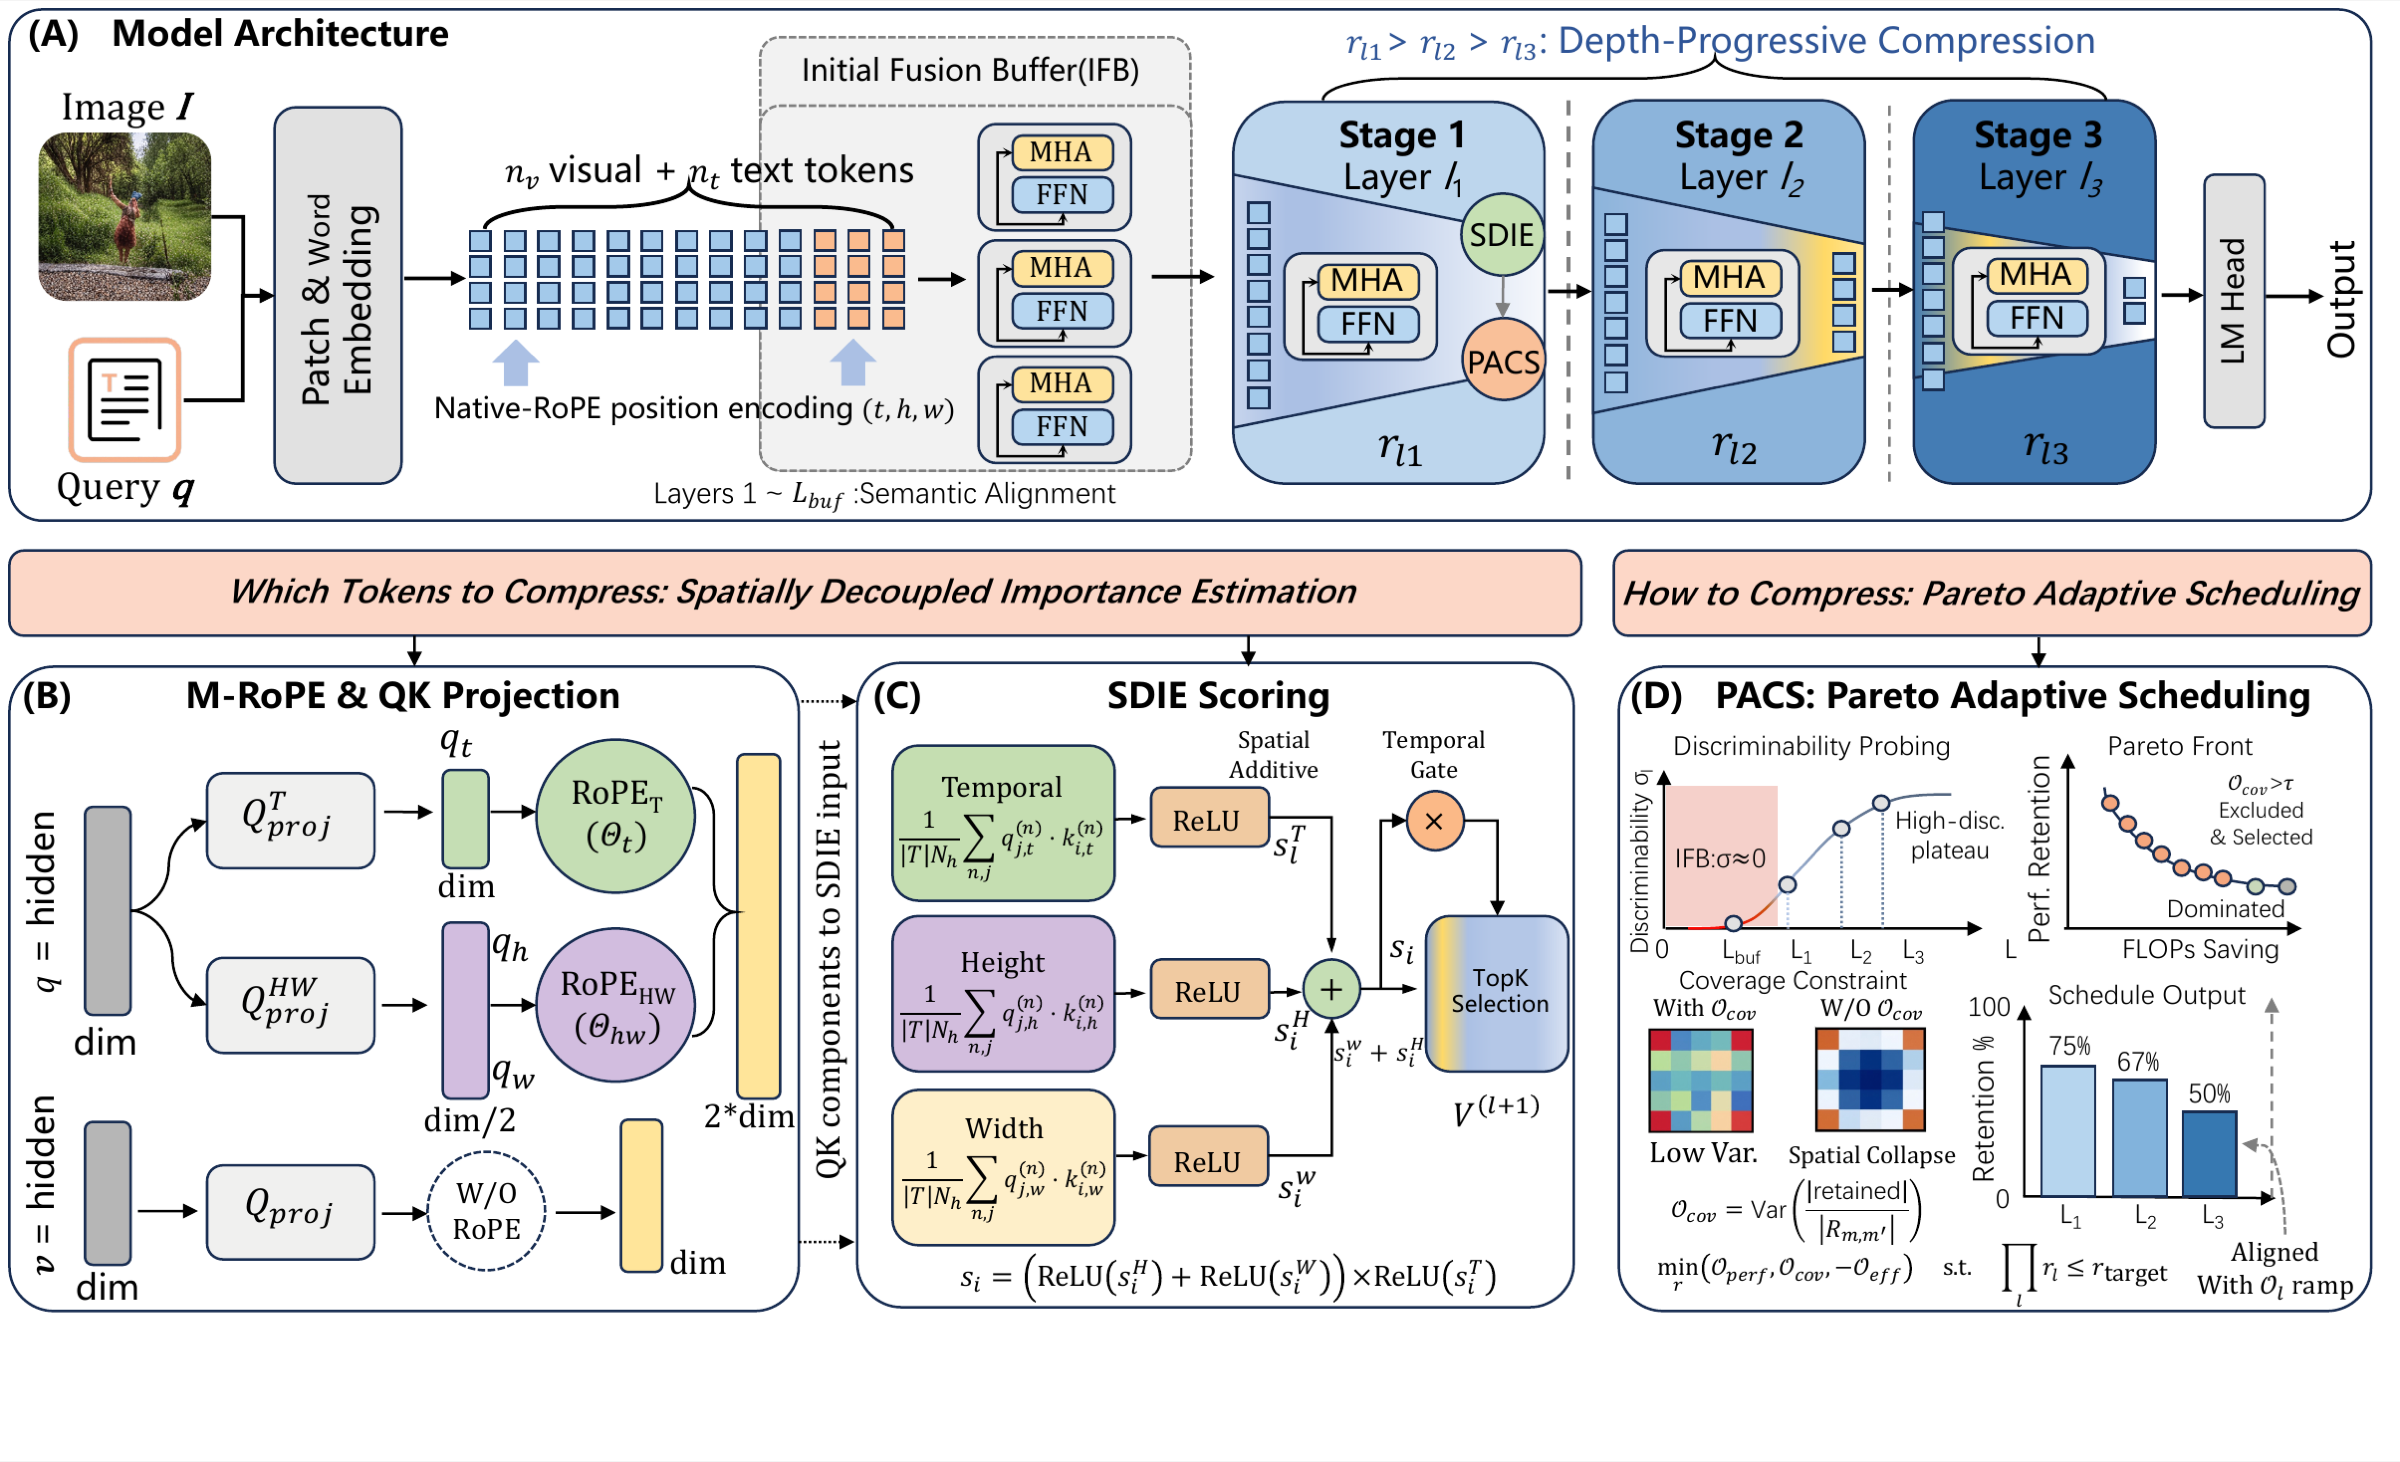
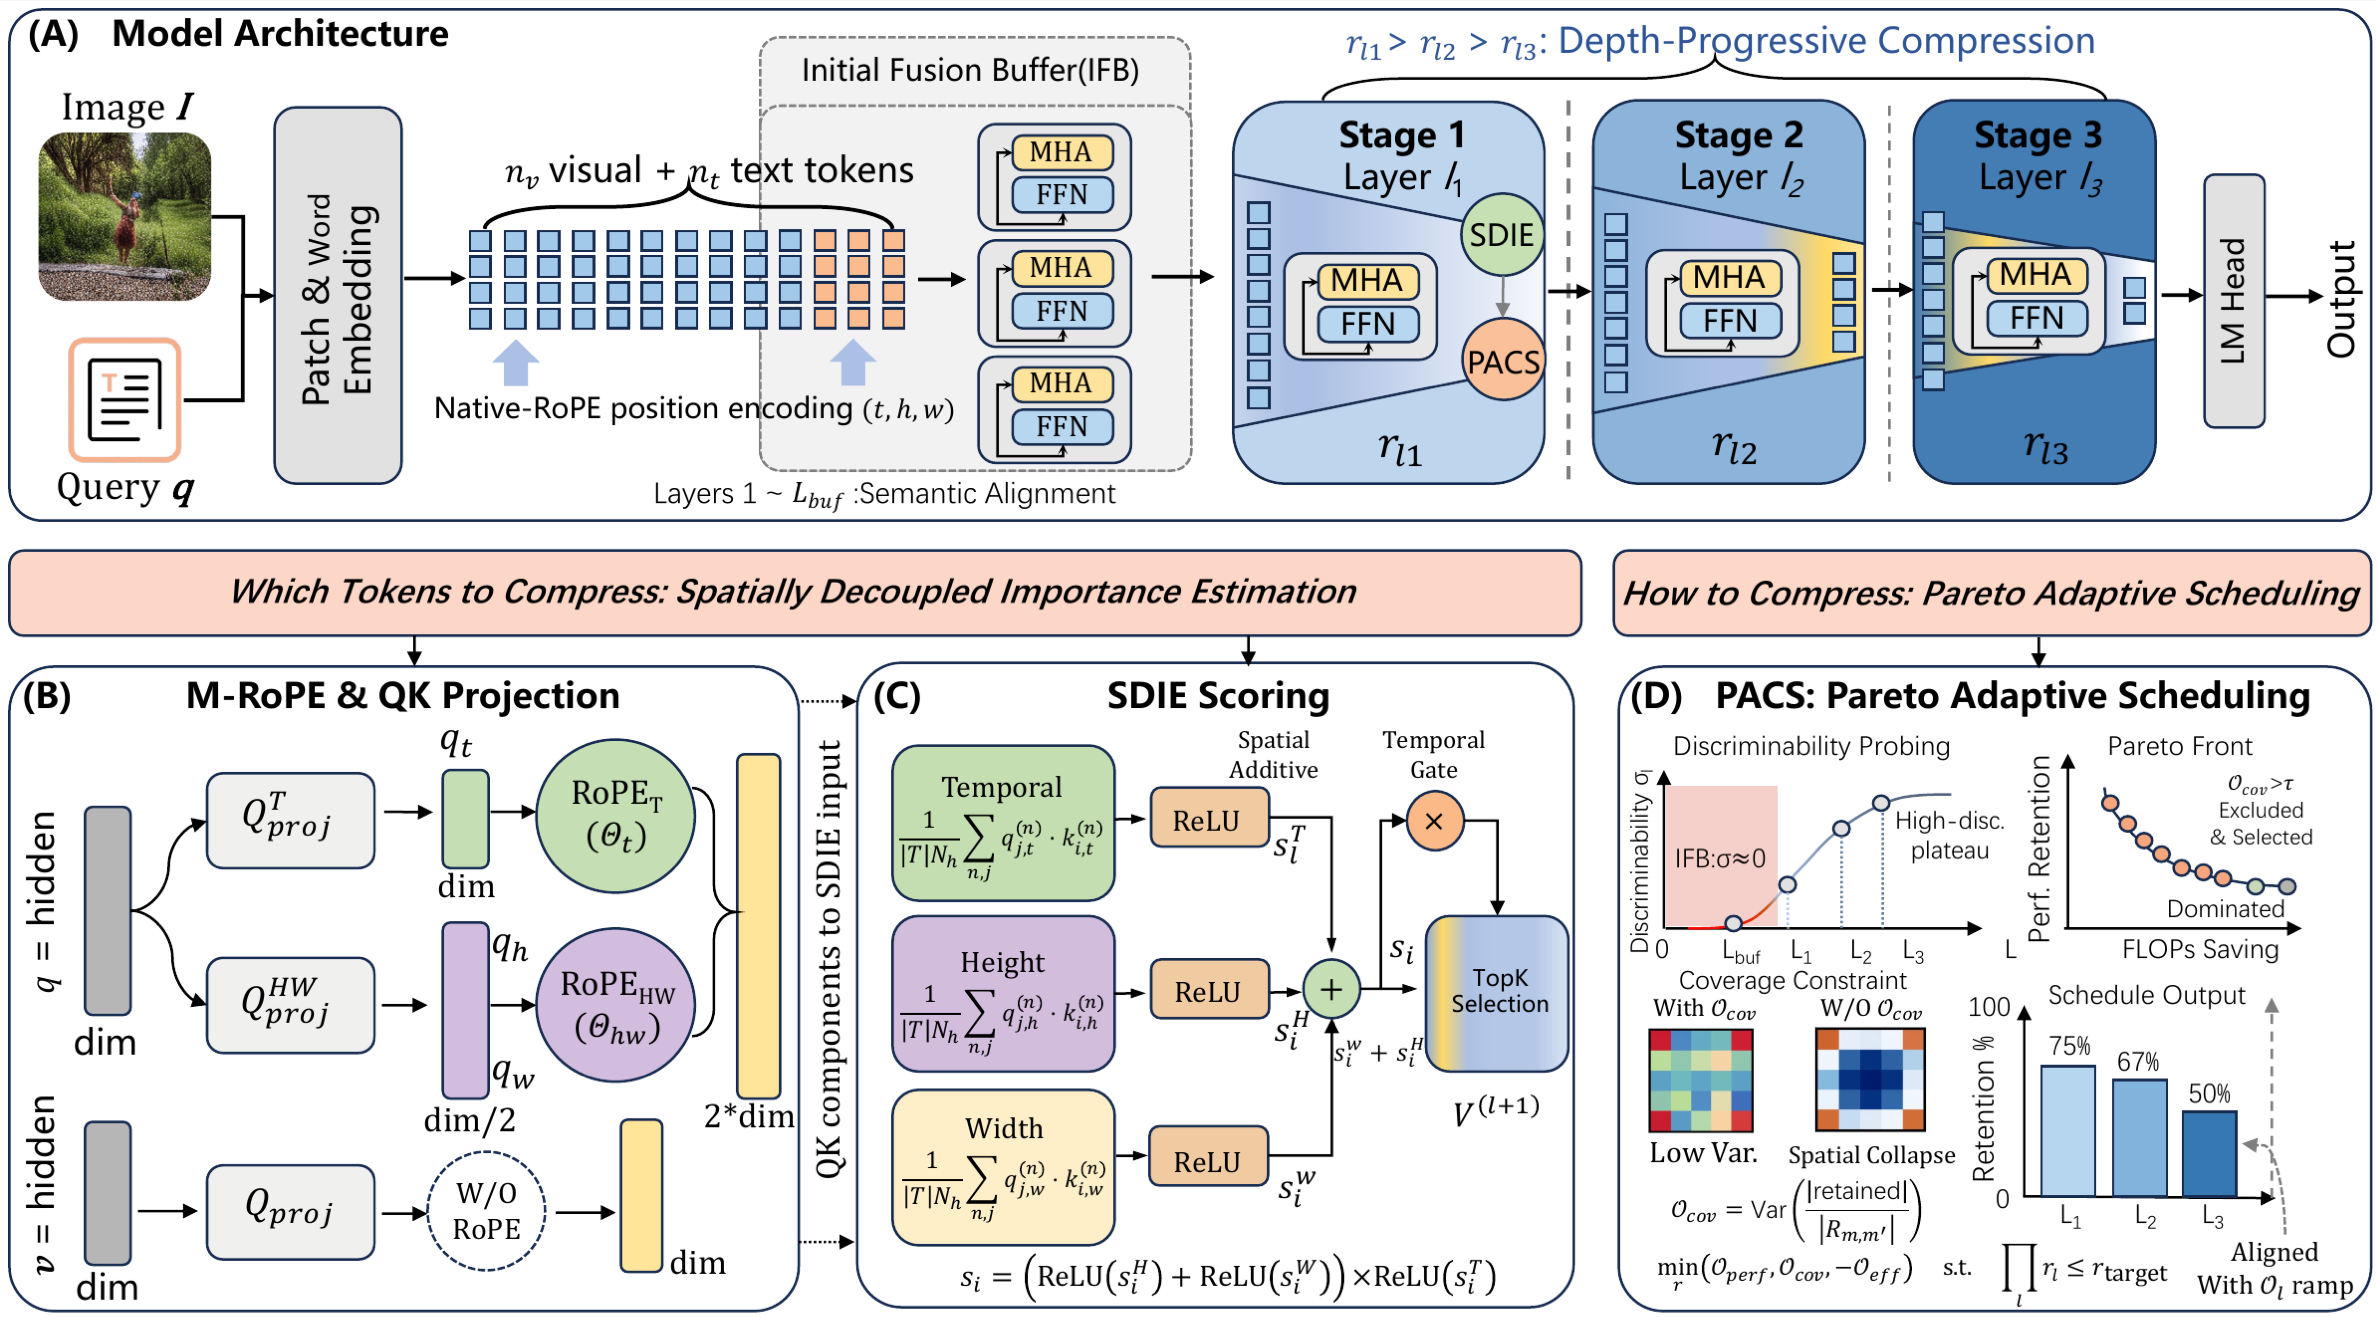
update

diff --git a/content/publication/pace/index.md b/content/publication/pace/index.md
@@ -10,8 +10,8 @@ date: "2026-09-29T00:00:00Z"
 doi: ""
 
 publication_types: ["1"]
-publication: "Advances in Neural Information Processing Systems (NeurIPS), 2026 (Poster)"
-publication_short: "NeurIPS 2026 Poster"
+publication: "Advances in Neural Information Processing Systems (NeurIPS), 2026"
+publication_short: "NeurIPS 2026"
 
 abstract: "Native multimodal large language models (native MLLMs) jointly encode visual and linguistic sequences within a unified autoregressive Transformer, emerging as a promising paradigm for multimodal understanding. Unlike conventional ViT-based MLLMs that rely on an external vision encoder, ViT-free native MLLMs tokenize every pixel patch directly, which is intuitively expected to suffer from severe visual token redundancy. To examine this hypothesis, we conduct a pilot study and find that, unlike ViT-based models which degrade under compression, ViT-free MLLMs tolerate aggressive compression with near-lossless or even improved performance. Existing compression methods are built exclusively for the ViT-based setting, whereas native MLLMs, which stand to gain the most from visual token compression, remain entirely unexplored. To close this gap, we introduce an analysis pipeline for native backbones, centered on two metrics, i.e., token discriminability and cross-dimensional heterogeneous redundancy, which together reveal the following two findings: (i) redundancy is distributed independently and heterogeneously along the height and width axes, and (ii) in early layers, visual tokens are indiscriminable and uniformly redundant. Guided by these findings, we propose PACE (Pareto-Adaptive Compression for Efficient Native MLLMs), the first visual token compression framework tailored for native MLLMs with Multimodal-RoPE. Leveraging the dimensional decoupling of position encoding, PACE decomposes attention into two orthogonal spatial saliency estimates along height and width, gated by a positional attention signal, yielding a direction-aware importance measure with negligible overhead. It further casts token budget allocation as a Pareto optimization over three objectives, i.e., performance preservation, inference efficiency, and spatial coverage, which jointly identify the optimal compression depths and retention ratios. Experiments show that PACE maintains near-lossless performance at only 25%–50% visual token retention, and even achieves performance gains on several benchmarks, while delivering over 2× FLOPs reduction."
 summary: "Pareto-adaptive visual token compression for efficient native multimodal language models."

diff --git a/content/publication/pathology-aware-prototype-evolution/index.md b/content/publication/pathology-aware-prototype-evolution/index.md
@@ -10,8 +10,8 @@ date: "2025-01-01T00:00:00Z"
 doi: "10.1145/3746027.3754562"
 
 publication_types: ["1"]
-publication: "Proceedings of the 33rd ACM International Conference on Multimedia (ACM MM), 2025"
-publication_short: "ACM MM 2025"
+publication: "Proceedings of the 33rd ACM International Conference on Multimedia (ACM MM), 2025 (Oral)"
+publication_short: "ACM MM 2025 Oral"
 
 abstract: "Diabetic retinopathy (DR) grading plays a critical role in early clinical intervention and vision preservation. Recent explorations predominantly focus on visual lesion feature extraction through data processing and domain decoupling strategies. However, they generally overlook domain-invariant pathological patterns and underutilize the rich contextual knowledge of foundation models, relying solely on visual information, which is insufficient for distinguishing subtle pathological variations. Therefore, we propose integrating fine-grained pathological descriptions to complement prototypes with additional context, thereby resolving ambiguities in borderline cases. Specifically, we propose a Hierarchical Anchor Prototype Modulation (HAPM) framework to facilitate DR grading. First, we introduce a variance spectrum-driven anchor prototype library that preserves domain-invariant pathological patterns. We further employ a hierarchical differential prompt gating mechanism, dynamically selecting discriminative semantic prompts from both LVLM and LLM sources to address semantic confusion between adjacent DR grades. Finally, we utilize a two-stage prototype modulation strategy that progressively integrates clinical knowledge into visual prototypes through a Pathological Semantic Injector (PSI) and a Discriminative Prototype Enhancer (DPE). Extensive experiments across eight public datasets demonstrate that our approach achieves pathology-guided prototype evolution while outperforming state-of-the-art methods."
 summary: "LLM-driven pathology-aware prototype evolution for multicenter diabetic retinopathy diagnosis."

diff --git a/content/publication/ultrasound-continual-learning/index.md b/content/publication/ultrasound-continual-learning/index.md
@@ -12,8 +12,8 @@ date: "2024-12-03T00:00:00Z"
 doi: ""
 
 publication_types: ["1"]
-publication: "IEEE International Conference on Bioinformatics and Biomedicine (BIBM), 2024"
-publication_short: "BIBM 2024"
+publication: "IEEE International Conference on Bioinformatics and Biomedicine (BIBM), 2024 (Oral)"
+publication_short: "BIBM 2024 Oral"
 
 abstract: "As artificial intelligence progresses in the field of medical ultrasound image analysis, mitigating catastrophic forgetting during continuous learning processes in disease diagnosis and fetal ultrasound assistance is crucial. Inspired by the significant performance improvements achieved in various downstream visual tasks through advanced visual representations, we introduce a novel approach called Masked Ultrasound Image Modeling (MUIM) to prevent forgetting of new disease diagnosis tasks. In this approach, MUIM initially pre-trains on ultrasound images specific to the current task. By utilizing a masked autoencoder to train on unlabeled ultrasound images, it learns highly abstract representations of task-relevant information. To ensure the model's adaptability to new tasks, we propose contrastive Historical-Current Learning strategy, which enhances the model's ability to retain and integrate knowledge from previous tasks while learning new ones. By incorporating knowledge distillation loss and the exponential moving average (EMA) technique for joint inference and continuously updating new knowledge into the historical expert model, our approach enables the model to adaptively learn new tasks while preventing forgetting of old ones."
 summary: "Task-specific continual learning for ultrasound medical image analysis."
